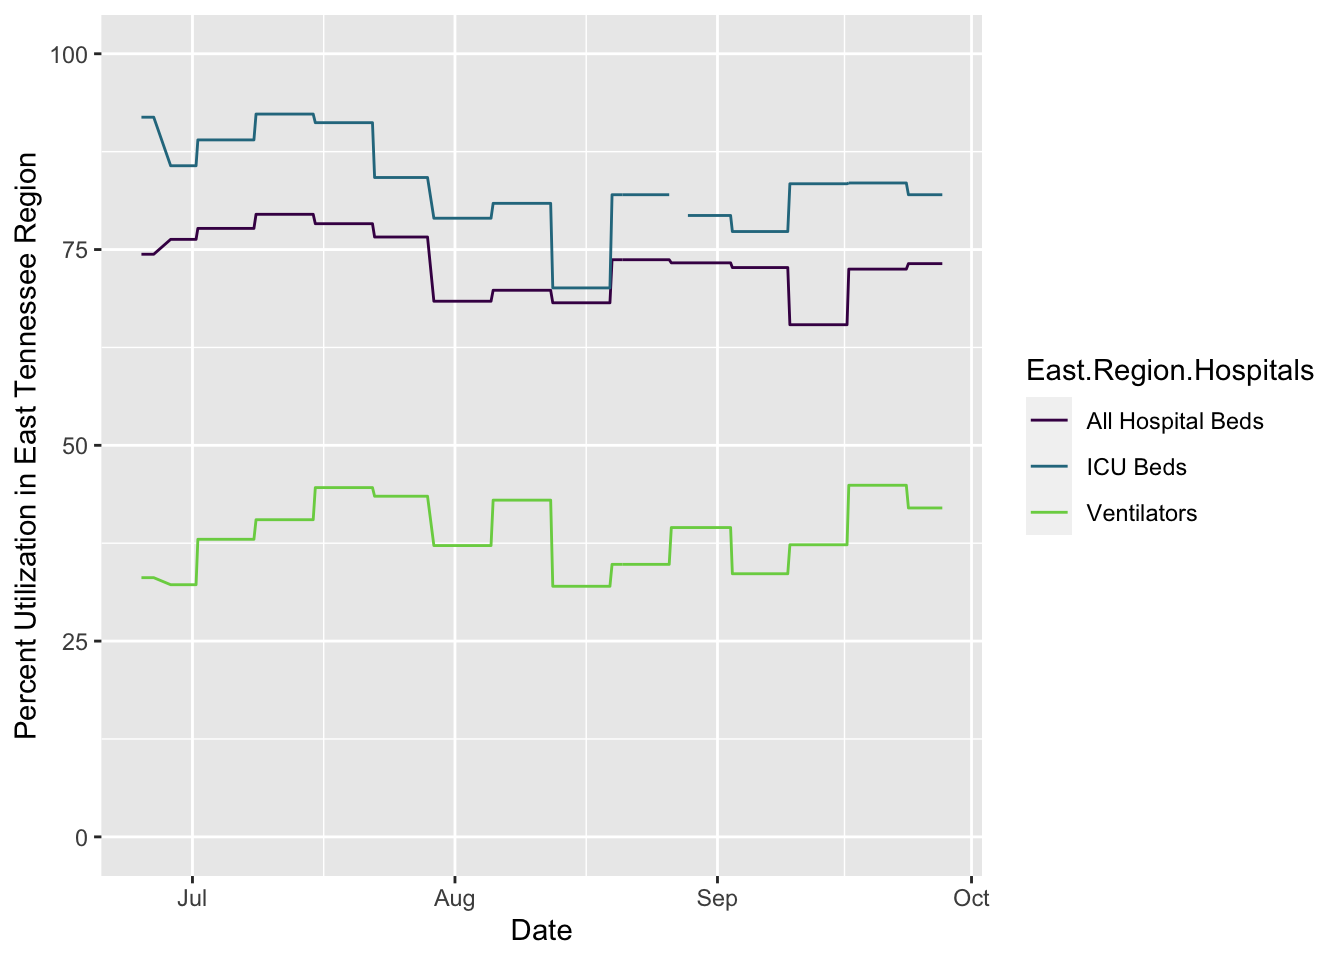
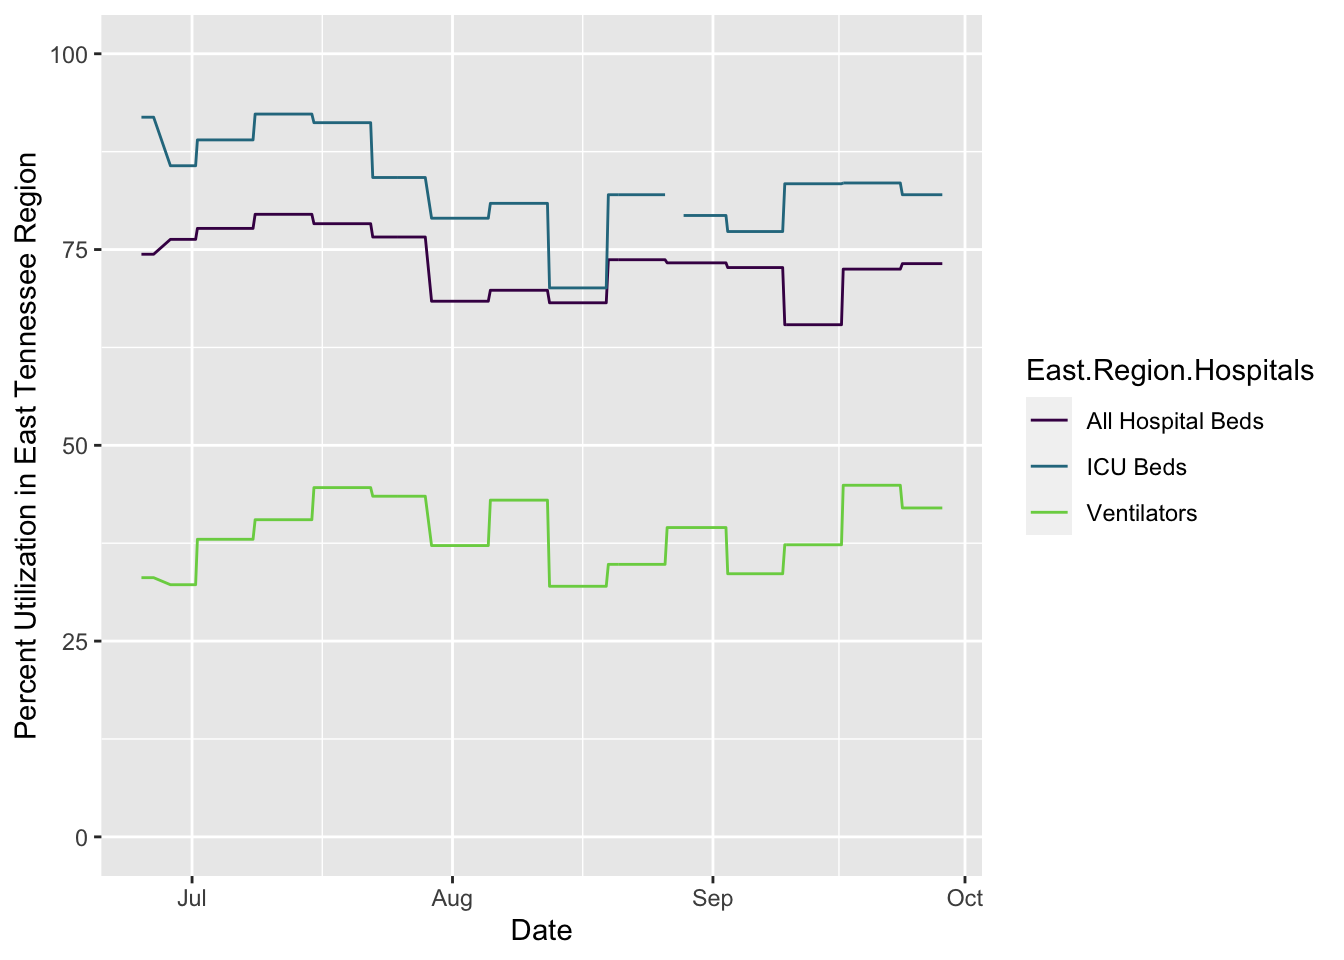
updating site

diff --git a/docs/covid.html b/docs/covid.html
@@ -426,7 +426,7 @@ $(document).ready(function () {
 <li>Info about cases at <a href="#ut">U. of Tennessee, Knoxville</a> (using public information only)</li>
 <li><a href="#webcams">Webcams</a> showing activity at local sites, though not quite at the resolution to point to mask usage or not</li>
 </ul>
-<p>The following plots are created in R using data from <a href="https://covid19datahub.io" class="uri">https://covid19datahub.io</a> (Guidotti, E., Ardia, D., (2020), “COVID-19 Data Hub”, Working paper, doi: 10.13140/RG.2.2.11649.81763), as well as information from Google and the <a href="https://www.tn.gov/health/cedep/ncov/data/downloadable-datasets.html">state of Tennessee dataset page</a> and plotting and analysis using the <code>forecast</code>, <code>ggplot2</code>, <code>reshape2</code>, and <code>dplyr</code> packages. Plots created on 2020-09-27 15:23:04. I use <code>ggplot2</code>’s <code>geom_smooth()</code> function for the smoothed regression plots with its default formula, which uses loess smoothing for this many points. This is not based on a model of disease spread or anything similarly sophisticated, just drawing a smooth curve to summarize noisy points (see <a href="https://www.itl.nist.gov/div898/handbook/pmd/section1/pmd144.htm">here</a> for more details).</p>
+<p>The following plots are created in R using data from <a href="https://covid19datahub.io" class="uri">https://covid19datahub.io</a> (Guidotti, E., Ardia, D., (2020), “COVID-19 Data Hub”, Working paper, doi: 10.13140/RG.2.2.11649.81763), as well as information from Google and the <a href="https://www.tn.gov/health/cedep/ncov/data/downloadable-datasets.html">state of Tennessee dataset page</a> and plotting and analysis using the <code>forecast</code>, <code>ggplot2</code>, <code>reshape2</code>, and <code>dplyr</code> packages. Plots created on 2020-09-28 07:50:28. I use <code>ggplot2</code>’s <code>geom_smooth()</code> function for the smoothed regression plots with its default formula, which uses loess smoothing for this many points. This is not based on a model of disease spread or anything similarly sophisticated, just drawing a smooth curve to summarize noisy points (see <a href="https://www.itl.nist.gov/div898/handbook/pmd/section1/pmd144.htm">here</a> for more details).</p>
 <h2 id="cases">
 Cases
 </h2>
@@ -467,7 +467,7 @@ Schooling
 <h2 id="hospitalization">
 Hospitalization
 </h2>
-<p>As of the last time the data were updated (likely 4 days ago), regional hospitals had 50 ICU beds available of 278 total, and 142 available ventilators out of 245 total. This is based on 19 acute care hospitals in the East TN region; based on the 14 counties these hospitals are in, these serve at least 1,235,720 people. When a line hits 100%, the local hospitals are theoretically full for that resource (for all patients, not just covid patients), though there is surge capacity on top of this. Note that these data are updated only weekly, so current conditions maybe be much better or worse than these plots show. Data on capacity from Knox County’s dashboard, data on hospitalizations and testing over time from the state data.</p>
+<p>As of the last time the data were updated (likely 5 days ago), regional hospitals had 50 ICU beds available of 278 total, and 142 available ventilators out of 245 total. This is based on 19 acute care hospitals in the East TN region; based on the 14 counties these hospitals are in, these serve at least 1,235,720 people. When a line hits 100%, the local hospitals are theoretically full for that resource (for all patients, not just covid patients), though there is surge capacity on top of this. Note that these data are updated only weekly, so current conditions maybe be much better or worse than these plots show. Data on capacity from Knox County’s dashboard, data on hospitalizations and testing over time from the state data.</p>
 <p><img src="covid_files/figure-html/hospitalcapacityplot-1.png" width="672" /></p>
 <p>Trends in hospitalization of covid patients over time. The vertical dotted line shows the last day with updated capacity information, when there were 50 ICU beds available (ignoring surge capacity) for people in the East Tennessee region.</p>
 <p><img src="covid_files/figure-html/plotsD-1.png" width="672" /></p>
